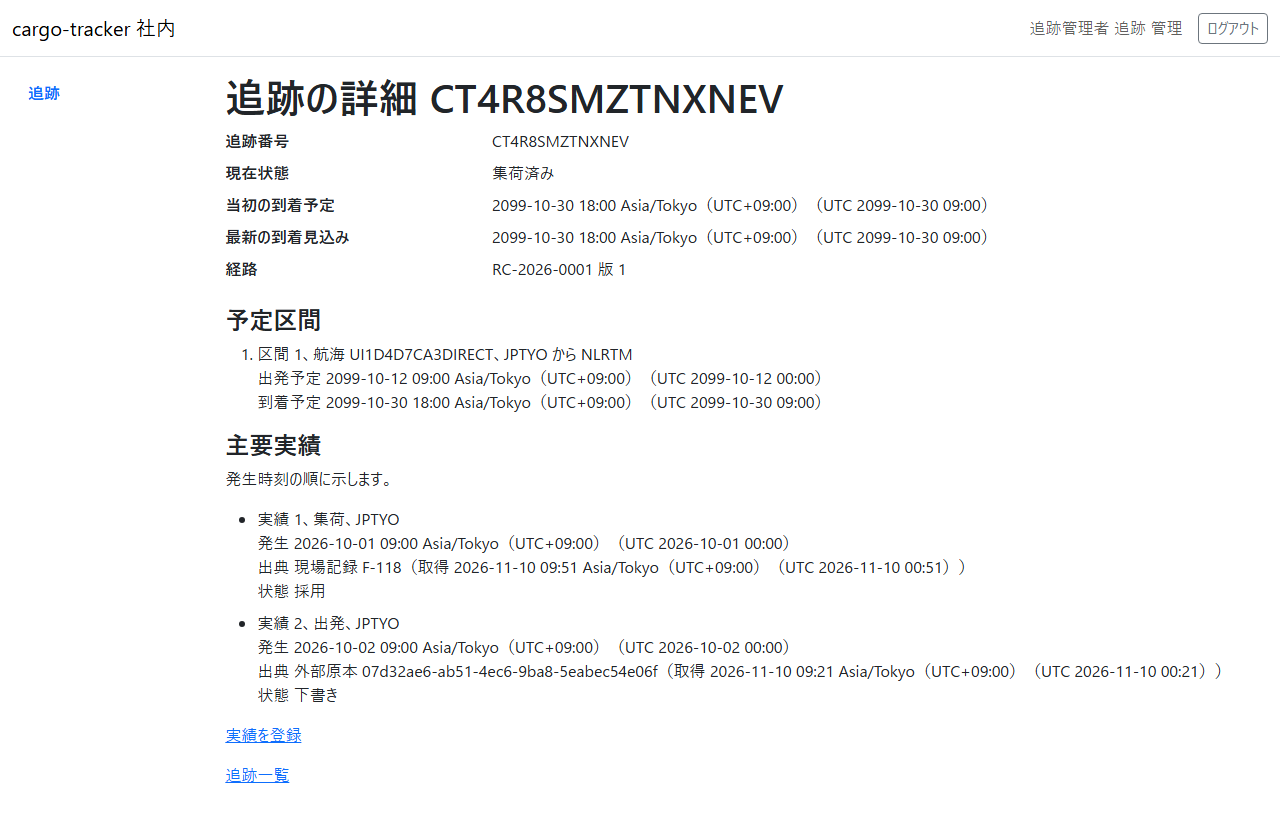
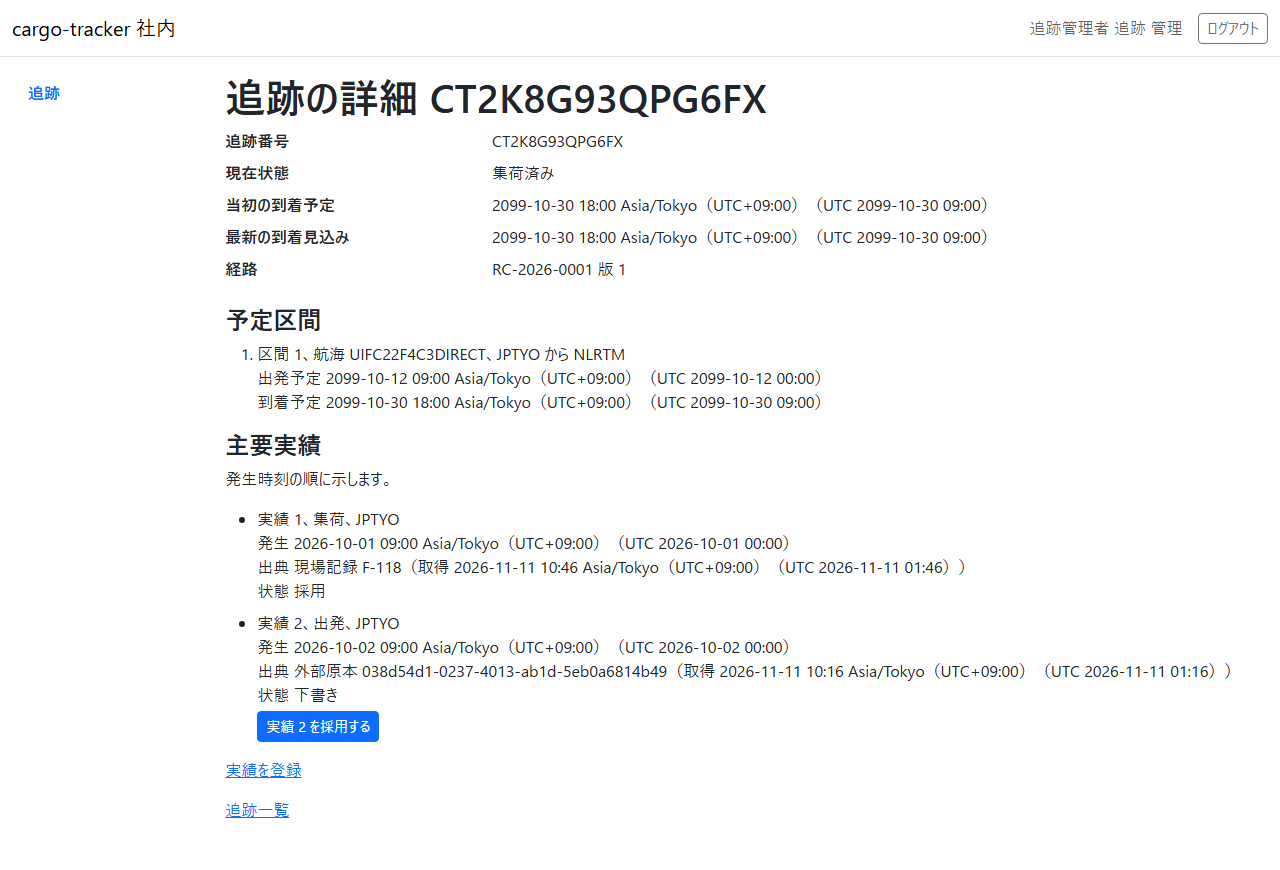
docs(manual): 取り込んだ下書きを採用する手順と置き換え・採用できない理由を 9 章・12 章・用語集に書く（Bolt 39gb ステップ 8）
- キャプチャ 09-tracking-detail-candidate を足し、09-tracking-detail-draft を撮り直した

Claude-Session: https://claude.ai/code/session_01GYBUMhzF3qHG3VM4wHGAai

diff --git a/docs/manual/09-追跡管理.md b/docs/manual/09-追跡管理.md
@@ -57,6 +57,7 @@ generated: { by: anthropic/claude-opus-5-5, at: 2026-11-10T03:11:28Z }
 ### この画面でできること
 
 - 貨物の現在状態・当初の到着予定・最新の到着見込み・経路・予定区間・主要実績を確かめ、実績の登録を開きます
+- 取り込んだ主要実績の下書きを採用し、現在状態に効かせます
 
 ### 画面の開き方
 
@@ -71,7 +72,7 @@ generated: { by: anthropic/claude-opus-5-5, at: 2026-11-10T03:11:28Z }
 | ① | 結果のメッセージ | 実績を登録した直後に「実績 N を登録しました。現在状態は「…」です。」と示されます |
 | ② | 追跡番号・現在状態・当初の到着予定・最新の到着見込み・経路 | 経路は確定した経路の番号と版 |
 | ③ | 予定区間 | 区間ごとの航海・積地から揚地・出発予定・到着予定 |
-| ④ | 主要実績 | 発生時刻の順。実績番号・種類・場所、発生・出典（取得時刻）・状態。状態は、現在状態を決めるのに使う「採用」、取り込んだ実績が届いたときの「下書き」、完了した追跡に届いた実績の「保持のみ」です。取り込んだ実績の出典は「外部原本 …（取得 …）」と示されます |
+| ④ | 主要実績 | 発生時刻の順。実績番号・種類・場所、発生・出典（取得時刻）・状態。状態は、現在状態を決めるのに使う「採用」、取り込んだ実績が届いたときの「下書き」、完了した追跡に届いた実績の「保持のみ」です。取り込んだ実績の出典は「外部原本 …（取得 …）」と示されます。採用できる下書きには「実績 N を採用する」ボタンが、採用しない下書きにはその理由（下の「注意・補足」）が示されます |
 | ⑤ | 「実績を登録」 | 主要実績の登録（[9.3](#93-主要実績の登録)）を開きます |
 | ⑥ | 「追跡一覧」 | 追跡一覧に戻ります |
 
@@ -82,6 +83,14 @@ generated: { by: anthropic/claude-opus-5-5, at: 2026-11-10T03:11:28Z }
 1. 予定区間と主要実績を確かめます
 2. 新しい実績があれば「実績を登録」をクリックします
 
+#### 取り込んだ下書きを採用する
+
+![追跡の詳細（値を直した下書きが届いた後。古い下書きは置き換えられたと示され、新しい下書きに採用のボタンがある）](assets/09-tracking-detail-candidate.png)
+
+1. 主要実績の一覧で、状態「下書き」の実績を確かめます。同じ主要実績の下書きが複数あるときは、後から公開された下書きだけに「実績 N を採用する」ボタンが示されます
+2. 内容（種類・場所・発生時刻・出典）を確かめ、「実績 N を採用する」をクリックします
+3. 「実績 N を採用しました。現在状態は「…」です。」と示され、実績の状態が「採用」になります。現在状態は採用した実績から決め直されます
+
 ### 注意・補足
 
 - 主要実績がまだなければ「主要実績はまだありません。」と示されます
@@ -89,8 +98,14 @@ generated: { by: anthropic/claude-opus-5-5, at: 2026-11-10T03:11:28Z }
 - 現在状態は、採用した主要実績から決まります（例: 集荷の実績で「集荷済み」）。追跡管理者が登録した実績は「採用」になります
 - データ責任者が外部データの取込（[12 章](12-外部データ.md)）で採用した主要実績は、状態「下書き」で届きます。届くまで少し時間がかかります。下書きは現在状態を変えず、荷主の追跡の照会にも示されません
 - 提供元の記録の発生時刻がいまより後でも、下書きで届きます。提供元の記録をそのまま残すためです。未来の時刻を登録できないのは、主要実績の登録（[9.3](#93-主要実績の登録)）だけです
-- 下書きを採用する操作はまだありません。それまで現在状態を変えるには、主要実績の登録（[9.3](#93-主要実績の登録)）で登録してください
-- 提供元が同じ主要実績の値を後から直したときは、下書きがもう 1 件届きます。前の下書きは消えません
+- 下書きは、採用するまで現在状態を変えません。採用すると、採用した人と時刻が記録されます
+- 提供元が同じ主要実績の値を後から直したときは、下書きがもう 1 件届きます。前の下書きは消えず、「後から公開された原本に置き換えられました」と示されます。採用できるのは後から公開された下書きだけです。提供元が元の値の原本を後から公開し直したときは、その下書きが採用できる下書きになります
+- 採用できる下書きでも、次のときは採用のボタンを出さず、理由を示します
+    - 「採用済みの実績と値が違います」: 同じ主要実績をすでに採用していて、新しい下書きの値がそれと違うとき。採用済みの実績は、この画面では直せません（訂正の操作は今後のリリースで提供します）
+    - 「採用済みの実績と同じ値です」: 同じ値をすでに採用しているとき。採用は要りません
+    - 「取消済みの予約の実績は採用できません」「完了した追跡の実績は採用できません」: 予約が取り消されたか、追跡が完了した後
+    - 「発生時刻がいまより後の実績は採用できません」: 発生時刻になってから採用してください
+- 「実績 N を採用する」をクリックしたときに、画面を開いた後でほかの更新（新しい下書きの到着など）があったときは、「ほかの更新が先にこの追跡記録を変更しました。最新の主要実績を確かめ、必要なら、もう一度採用してください。」と示され、採用されません。示された最新の主要実績を確かめ直してください
 - 予約が完了した貨物と、現在状態が「引渡し済み」の貨物に届いた実績は、状態「保持のみ」で残ります。現在状態を変えず、荷主の追跡の照会にも示されません
 - 追跡番号が見つからない実績と、取消済みの予約の実績は下書きにならず、追跡の詳細に示されません。データ責任者に下書きが届いているかを聞かれたら、この画面の主要実績を確かめて伝えてください（[12 章](12-外部データ.md)）
 

diff --git a/docs/manual/12-外部データ.md b/docs/manual/12-外部データ.md
@@ -447,7 +447,7 @@ generated: { by: anthropic/claude-opus-5-5, at: 2026-11-10T00:48:05Z }
 - 却下は、1 件ずつでもまとめてでも取り消せません。誤って却下したときは、提供元に同じ原本を送り直してもらってください。再び隔離になり、判断を待つ隔離の一覧に戻ります。同じ内容の別の隔離をすでに採用していたときは重複になり、判断は要りません。同じファイルを取り込み直すと、形式の誤りは再び判断を待つ隔離になります（[直して送り直すとき](#直して送り直すとき)）
 - 形式の誤りの隔離は却下だけです。採用はできないので、直したファイルを取り込み直してください（[形式の誤りの隔離](#形式の誤りの隔離)）
 - 採用は取り消せません。誤って採用したときは、提供元に新しい外部版で正しい原本を送ってもらってください（[誤って採用したとき](#誤って採用したとき)）。すでに再設計要になった確定の経路は、正しい原本を採用し直しても確定に戻りません
-- 航海の採用値は、経路設計の候補の算出と確定、確定した経路の評価に使われます（候補を再算出すると新しい予定で比べます。算出済みの候補は、経路候補の比較を開いたときに「古くなった候補」と示され、再算出するまで確定できません）。主要実績の採用値は、追跡管理者の追跡の詳細に、状態「下書き」で届きます（取込で採用した値も、隔離を採用した値も同じです。届くまで少し時間がかかります）。下書きは追跡の現在状態を変えません（[9.2](09-追跡管理.md#92-追跡の詳細)）。完了した追跡には、状態「保持のみ」で残ります
+- 航海の採用値は、経路設計の候補の算出と確定、確定した経路の評価に使われます（候補を再算出すると新しい予定で比べます。算出済みの候補は、経路候補の比較を開いたときに「古くなった候補」と示され、再算出するまで確定できません）。主要実績の採用値は、追跡管理者の追跡の詳細に、状態「下書き」で届きます（取込で採用した値も、隔離を採用した値も同じです。届くまで少し時間がかかります）。下書きは、追跡管理者が採用するまで追跡の現在状態を変えません（[9.2](09-追跡管理.md#92-追跡の詳細)）。完了した追跡には、状態「保持のみ」で残ります
 - 追跡番号が見つからない実績と、取消済みの予約の実績は、下書きになりません。外部データの画面では採用のまま示され、下書きにならなかったことは示されません。追跡番号が見つからなかった実績は、後から追跡が始まっても下書きになりません。下書きが届かないときは追跡管理者に確かめ、新しい外部版で送り直してもらってください（取消済みの予約の実績は、送り直しても下書きになりません）
 - 内容の違う原本は採用できます（[隔離を採用する](#隔離を採用する)）。採用できない隔離には、判断の画面に理由とすることが示されます（[採用の欄が出ない隔離](#採用の欄が出ない隔離)）
 - 採用した隔離の行をもう一度取り込むと重複になり、元の行を取り込むと隔離になります（[直して送り直すとき](#直して送り直すとき)）

diff --git a/docs/manual/用語集.md b/docs/manual/用語集.md
@@ -55,8 +55,8 @@ generated: { by: anthropic/claude-opus-5-5, at: 2026-11-10T00:48:05Z }
 | 主要実績 | 集荷・搬入・出発・積替・到着・引渡しの事実。発生時刻と出典とともに記録します |
 | 出典 | 主要実績の根拠の情報（現場記録・社内確認・手動入力・外部原本）と、その参照（受付番号など） |
 | 出典の外部原本 | 提供元から取り込んだ原本を根拠にした主要実績の出典。追跡の詳細に「外部原本 …（取得 …）」と示されます。主要実績の登録では選べません |
-| 採用 | 現在状態を決めるのに使う主要実績の状態。追跡管理者が登録した実績は採用になります。取り込んだ実績は下書きで届きます。外部データの取込の分類の「採用」は別の意味です（採用（外部データの取込）） |
-| 下書き | データ責任者が外部データの取込で採用した主要実績が、追跡の詳細に届いたときの状態。現在状態を変えず、荷主の追跡の照会にも示されません。下書きを採用する操作はまだありません。それまで現在状態を変えるには、主要実績の登録（[9.3](09-追跡管理.md#93-主要実績の登録)）で登録してください |
+| 採用 | 現在状態を決めるのに使う主要実績の状態。追跡管理者が登録した実績は採用になります。取り込んだ実績は下書きで届き、追跡管理者が採用すると採用になります。外部データの取込の分類の「採用」は別の意味です（採用（外部データの取込）） |
+| 下書き | データ責任者が外部データの取込で採用した主要実績が、追跡の詳細に届いたときの状態。現在状態を変えず、荷主の追跡の照会にも示されません。追跡管理者が追跡の詳細で採用すると「採用」になり、現在状態が決め直されます（[9.2](09-追跡管理.md#92-追跡の詳細)）。同じ主要実績の下書きが複数あるときに採用できるのは、後から公開された下書きだけです（ほかの下書きは「後から公開された原本に置き換えられました」と示されます） |
 | 保持のみ | 予約が完了した貨物と、現在状態が「引渡し済み」の貨物に届いた、取り込んだ主要実績の状態。記録として残し、現在状態を変えず、荷主の追跡の照会にも示されません |
 | 現在状態（現在の状態） | 採用した主要実績から決まる貨物の状態（集荷予定、集荷済みなど）。荷主の画面では「現在の状態」、社内の画面では「現在状態」と示します |
 | 予約版 | 本予約の内容の版。確定したときが予約版 1 です |
